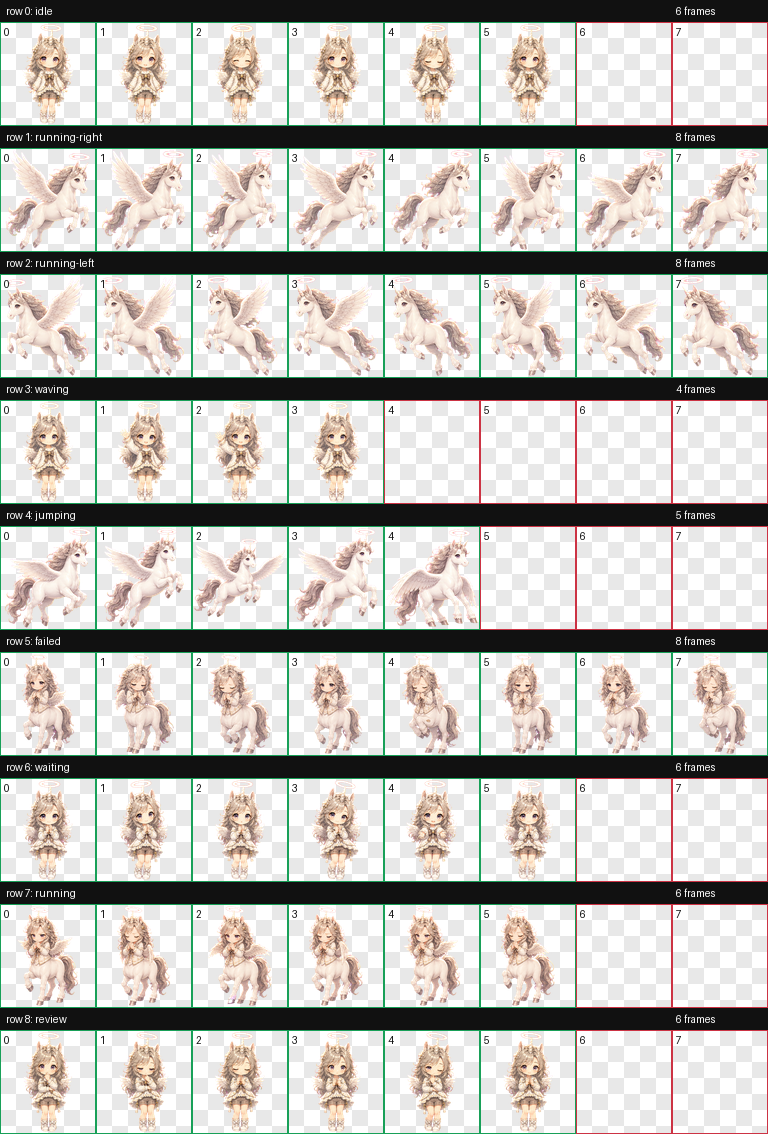
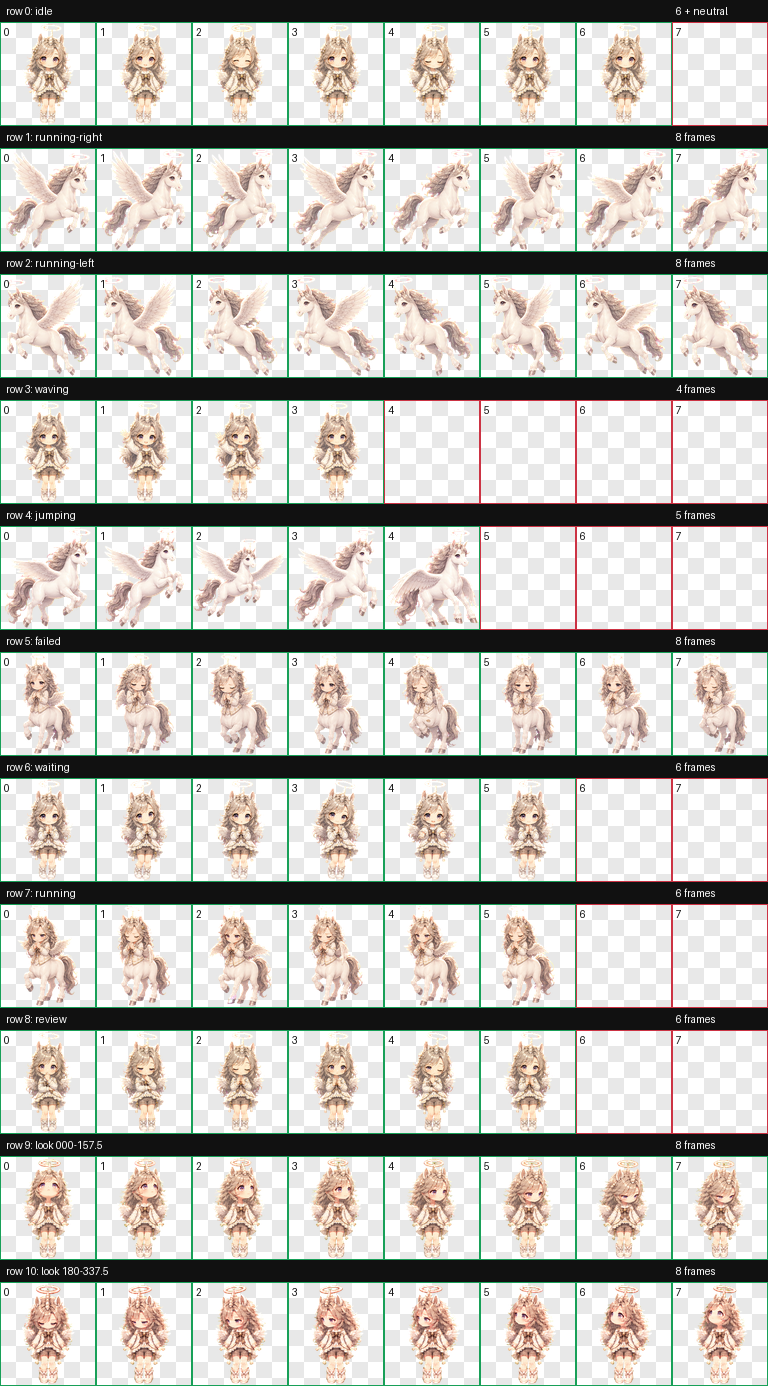
Upgrade Luma to v2 with cleaned directional sprites

diff --git a/site/pet-detail.js b/site/pet-detail.js
@@ -115,7 +115,7 @@ function renderStates(pet, base) {
 }
 
 function renderInstall(pet, base) {
-  const command = pet.install?.npm || `npx miantuan-pets install ${pet.id}`;
+  const command = pet.install?.github || pet.install?.npm || `npx miantuan-pets install ${pet.id}`;
   $(".install-label", base).textContent = state.messages.installLabel;
   $("code", base).textContent = command;
   $(".copy-button", base).textContent = state.messages.copy;
@@ -136,7 +136,7 @@ function renderDetail(pet) {
   document.title = `${name} | Miantuan Pets`;
   $(".detail-banner img", detail).src = assetPath(pet.assets.preview);
   $(".detail-banner img", detail).alt = `${name} ${state.messages.bannerLabel}`;
-  $(".motion-panel img", detail).src = assetPath(pet.assets.animatedPreview || pet.assets.preview);
+  $(".motion-panel img", detail).src = assetPath(pet.assets.lookPreview || pet.assets.animatedPreview || pet.assets.preview);
   $(".motion-panel img", detail).alt = `${name} ${state.messages.motionLabel}`;
   $(".badge", detail).textContent = text(pet.statusLabel);
   $("h1", detail).textContent = name;

diff --git a/pets/luma/index.html b/pets/luma/index.html
@@ -76,6 +76,6 @@
       </article>
     </template>
 
-    <script type="module" src="../../site/pet-detail.js?v=20260630-pages"></script>
+    <script type="module" src="../../site/pet-detail.js?v=20260912-luma-v2"></script>
   </body>
 </html>

diff --git a/scripts/render-pet-previews.py b/scripts/render-pet-previews.py
@@ -46,14 +46,30 @@ def remove_chroma_edge(frame: Image.Image) -> Image.Image:
     return image
 
 
-def save_preview(frames: list[Image.Image], output: Path) -> None:
+def crop_look_frames(spritesheet: Path) -> list[Image.Image]:
+    with Image.open(spritesheet) as opened:
+        atlas = opened.convert("RGBA")
+    if atlas.size != (1536, 2288):
+        raise ValueError(f"Looking previews require a v2 atlas: {spritesheet}")
+    return [
+        atlas.crop((
+            (index % 8) * CELL_WIDTH,
+            (9 + index // 8) * CELL_HEIGHT,
+            (index % 8 + 1) * CELL_WIDTH,
+            (10 + index // 8) * CELL_HEIGHT,
+        ))
+        for index in range(16)
+    ]
+
+
+def save_preview(frames: list[Image.Image], output: Path, durations: list[int] | None = None) -> None:
     output.parent.mkdir(parents=True, exist_ok=True)
     frames[0].save(
         output,
         format="PNG",
         save_all=True,
         append_images=frames[1:],
-        duration=IDLE_DURATIONS,
+        duration=durations or IDLE_DURATIONS,
         loop=0,
         disposal=2,
         optimize=False,
@@ -63,6 +79,7 @@ def save_preview(frames: list[Image.Image], output: Path) -> None:
 def main() -> None:
     parser = argparse.ArgumentParser(description=__doc__)
     parser.add_argument("--root", default=".")
+    parser.add_argument("--pet", help="Render only this pet id.")
     args = parser.parse_args()
 
     root = Path(args.root).expanduser().resolve()
@@ -70,11 +87,17 @@ def main() -> None:
     rendered = []
 
     for item in index["pets"]:
+        if args.pet and item["id"] != args.pet:
+            continue
         pet = read_json(root / (item.get("entry") or f"data/pets/{item['id']}.json"))
         spritesheet = root / pet["assets"]["spritesheet"]
         output = root / f"assets/pets/{pet['id']}/animated-preview.png"
         save_preview(crop_idle_frames(spritesheet), output)
         rendered.append(str(output.relative_to(root)))
+        if pet["assets"].get("lookPreview"):
+            output = root / pet["assets"]["lookPreview"]
+            save_preview(crop_look_frames(spritesheet), output, [240] * 16)
+            rendered.append(str(output.relative_to(root)))
 
     print(json.dumps({"ok": True, "rendered": rendered}, indent=2))
 
